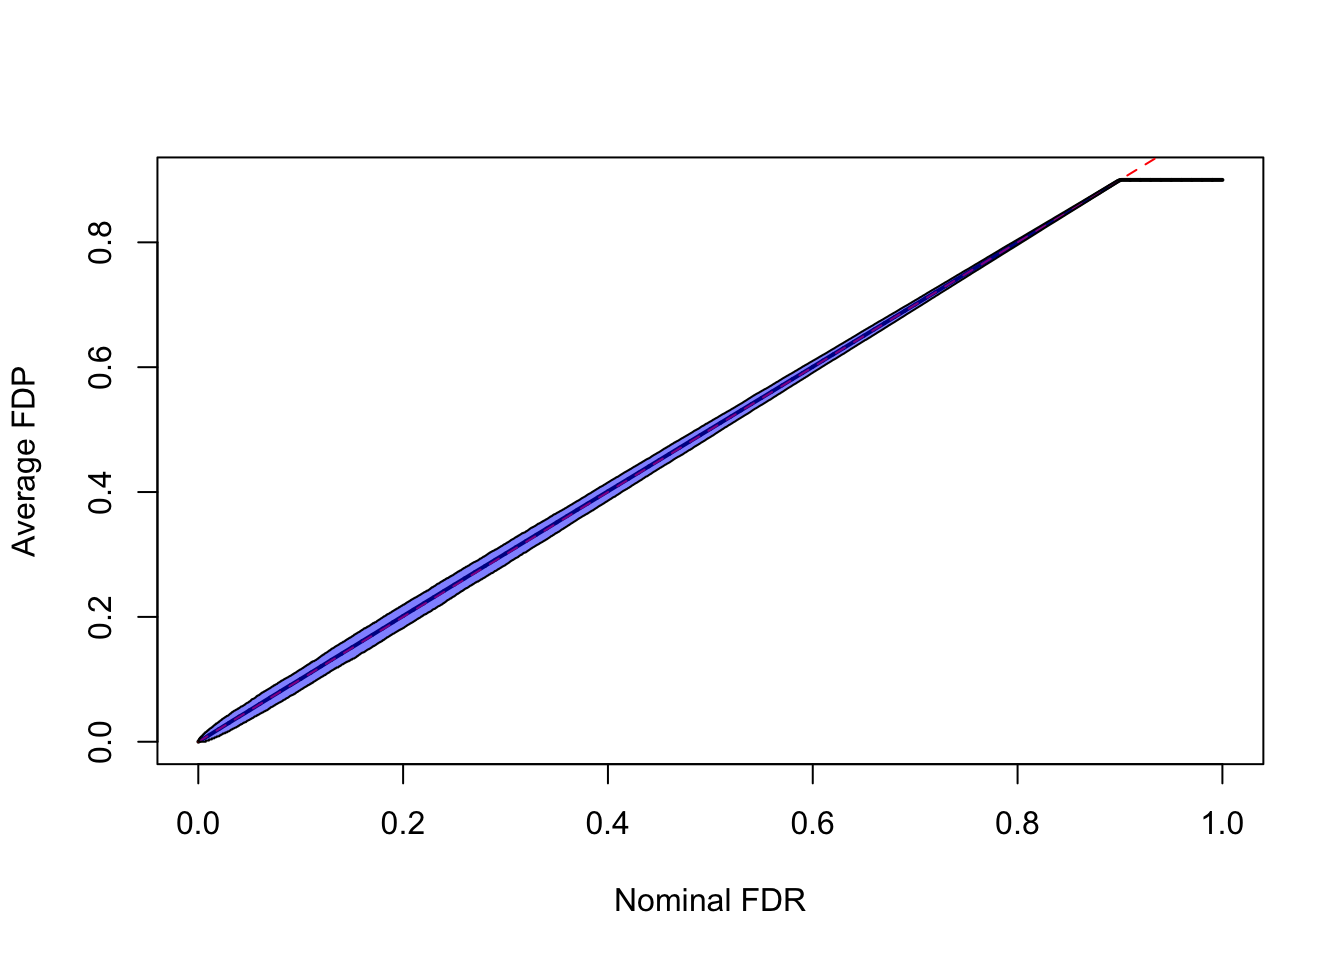
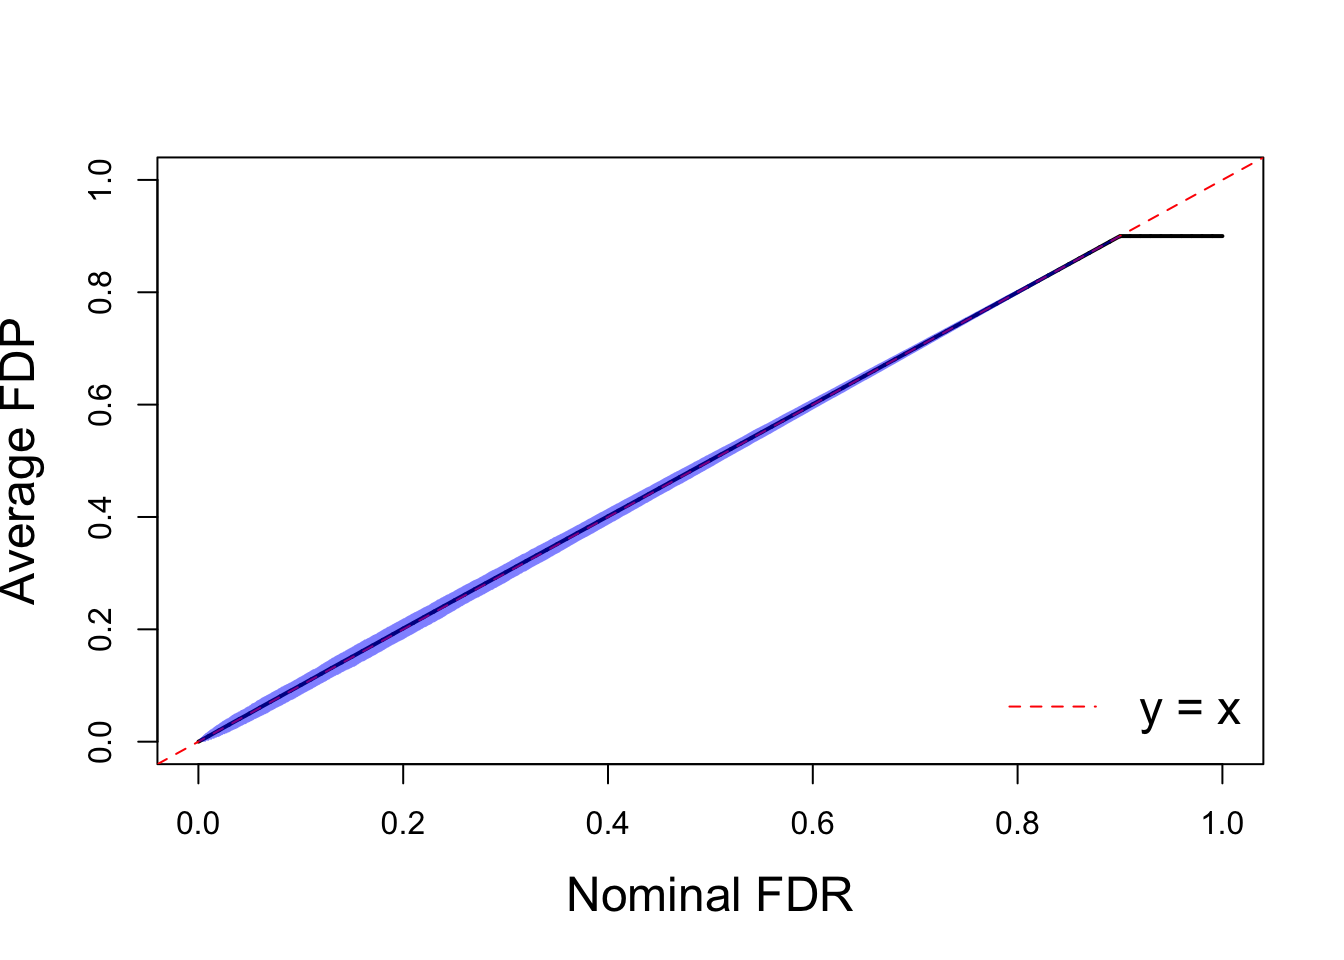
wflow_publish(all = TRUE)

diff --git a/docs/OB_FDR.html b/docs/OB_FDR.html
@@ -361,13 +361,17 @@ div.section {
 </li>
 <li>
 <details>
-<p><summary> <strong style="color:blue;">✔</strong> <strong>Repository version:</strong> <a href="https://github.com/LSun/OracleBayesMT/tree/ed81f2bf03adefc4f9e2f4cfd66c8eb663002227" target="_blank">ed81f2b</a> </summary></p>
+<p><summary> <strong style="color:blue;">✔</strong> <strong>Repository version:</strong> <a href="https://github.com/LSun/OracleBayesMT/tree/c6af604cad9f8ec0f22c3b8413df87d228149e0f" target="_blank">c6af604</a> </summary></p>
 Great! You are using Git for version control. Tracking code development and connecting the code version to the results is critical for reproducibility. The version displayed above was the version of the Git repository at the time these results were generated. <br><br> Note that you need to be careful to ensure that all relevant files for the analysis have been committed to Git prior to generating the results (you can use <code>wflow_publish</code> or <code>wflow_git_commit</code>). workflowr only checks the R Markdown file, but you know if there are other scripts or data files that it depends on. Below is the status of the Git repository when the results were generated:
 <pre><code>
 Ignored files:
+    Ignored:    .Rhistory
     Ignored:    .Rproj.user/
     Ignored:    analysis/OB_FDR_cache/
-    Ignored:    docs/figure/
+    Ignored:    figures/
+
+Unstaged changes:
+    Modified:   analysis/index.Rmd
 
 </code></pre>
 Note that any generated files, e.g. HTML, png, CSS, etc., are not included in this status report because it is ok for generated content to have uncommitted changes.
@@ -398,6 +402,40 @@ Message
 </tr>
 </thead>
 <tbody>
+<tr>
+<td style="text-align:left;">
+rmd
+</td>
+<td style="text-align:left;">
+<a href="https://github.com/LSun/OracleBayesMT/blob/c6af604cad9f8ec0f22c3b8413df87d228149e0f/analysis/OB_FDR.rmd" target="_blank">c6af604</a>
+</td>
+<td style="text-align:left;">
+Lei Sun
+</td>
+<td style="text-align:left;">
+2018-12-27
+</td>
+<td style="text-align:left;">
+figures
+</td>
+</tr>
+<tr>
+<td style="text-align:left;">
+html
+</td>
+<td style="text-align:left;">
+<a href="https://cdn.rawgit.com/LSun/OracleBayesMT/c40e19afb6bbe881a069eb10fe3a38335ae06dec/docs/OB_FDR.html" target="_blank">c40e19a</a>
+</td>
+<td style="text-align:left;">
+LSun
+</td>
+<td style="text-align:left;">
+2018-12-27
+</td>
+<td style="text-align:left;">
+Build site.
+</td>
+</tr>
 <tr>
 <td style="text-align:left;">
 rmd
@@ -467,10 +505,54 @@ colnames(FDP.mat) &lt;- q.vec</code></pre>
 <pre class="r"><code>FDP.mean &lt;- colMeans(FDP.mat)
 FDP.975 &lt;- apply(FDP.mat, 2, quantile, 0.975)
 FDP.025 &lt;- apply(FDP.mat, 2, quantile, 0.025)</code></pre>
-<pre class="r"><code>plot(q.vec, FDP.mean, xlab = &quot;Nominal FDR&quot;, ylab = &quot;Average FDP&quot;, type = &quot;l&quot;, lwd = 2)
-lines(0 : 1, 0 : 1, lty = 2, col = &quot;red&quot;)
-polygon(x = c(q.vec, rev(q.vec)), y = c(FDP.025, rev(FDP.975)), col = grDevices::rgb(0, 0, 1, alpha = 0.5))</code></pre>
+<pre class="r"><code>plot(q.vec, FDP.mean, xlab = &quot;Nominal FDR&quot;, ylab = &quot;Average FDP&quot;, type = &quot;l&quot;, lwd = 2, ylim = c(0, 1), xlim = c(0, 1), cex.lab = 1.5)
+abline(0, 1, lty = 2, col = &quot;red&quot;)
+polygon(x = c(q.vec, rev(q.vec)), y = c(FDP.025, rev(FDP.975)), col = grDevices::rgb(0, 0, 1, alpha = 0.5), border = FALSE)
+
+legend(&quot;bottomright&quot;, lty = 2, col = &quot;red&quot;, &quot;y = x&quot;, cex = 1.5, bty = &quot;n&quot;)</code></pre>
 <p><img src="figure/OB_FDR.rmd/unnamed-chunk-6-1.png" width="672" style="display: block; margin: auto;" /></p>
+<details>
+<summary><em>Expand here to see past versions of unnamed-chunk-6-1.png:</em></summary>
+<table style = "border-collapse:separate; border-spacing:5px;">
+<thead>
+<tr>
+<th style="text-align:left;">
+Version
+</th>
+<th style="text-align:left;">
+Author
+</th>
+<th style="text-align:left;">
+Date
+</th>
+</tr>
+</thead>
+<tbody>
+<tr>
+<td style="text-align:left;">
+<a href="https://github.com/LSun/OracleBayesMT/blob/c40e19afb6bbe881a069eb10fe3a38335ae06dec/docs/figure/OB_FDR.rmd/unnamed-chunk-6-1.png" target="_blank">c40e19a</a>
+</td>
+<td style="text-align:left;">
+LSun
+</td>
+<td style="text-align:left;">
+2018-12-27
+</td>
+</tr>
+</tbody>
+</table>
+</details>
+<pre class="r"><code>pdf(&quot;../figures/avgFDP.pdf&quot;, width = 5, height = 5)
+
+par(mar = c(4.5, 4.5, 1, 1))
+
+plot(q.vec, FDP.mean, xlab = &quot;Nominal FDR&quot;, ylab = &quot;Average FDP&quot;, type = &quot;l&quot;, lwd = 2, ylim = c(0, 1), xlim = c(0, 1), cex.lab = 1.5)
+abline(0, 1, lty = 2, col = &quot;red&quot;)
+polygon(x = c(q.vec, rev(q.vec)), y = c(FDP.025, rev(FDP.975)), col = grDevices::rgb(0, 0, 1, alpha = 0.5), border = FALSE)
+
+legend(&quot;bottomright&quot;, lty = 2, col = &quot;red&quot;, &quot;y = x&quot;, cex = 1.5, bty = &quot;n&quot;)
+
+invisible(dev.off())</code></pre>
 <div id="session-information" class="section level2">
 <h2>Session information</h2>
 <pre class="r"><code>sessionInfo()</code></pre>
@@ -489,13 +571,13 @@ attached base packages:
 [1] stats     graphics  grDevices utils     datasets  methods   base     
 
 loaded via a namespace (and not attached):
- [1] workflowr_1.1.1   Rcpp_0.12.16      codetools_0.2-15 
- [4] digest_0.6.15     rprojroot_1.3-2   R.methodsS3_1.7.1
- [7] backports_1.1.2   git2r_0.23.0      magrittr_1.5     
-[10] evaluate_0.10.1   stringi_1.2.2     whisker_0.3-2    
-[13] R.oo_1.22.0       R.utils_2.6.0     rmarkdown_1.9    
-[16] tools_3.4.3       stringr_1.3.1     yaml_2.1.19      
-[19] compiler_3.4.3    htmltools_0.3.6   knitr_1.20       </code></pre>
+ [1] workflowr_1.1.1   Rcpp_0.12.16      digest_0.6.15    
+ [4] rprojroot_1.3-2   R.methodsS3_1.7.1 backports_1.1.2  
+ [7] git2r_0.23.0      magrittr_1.5      evaluate_0.10.1  
+[10] stringi_1.2.2     whisker_0.3-2     R.oo_1.22.0      
+[13] R.utils_2.6.0     rmarkdown_1.9     tools_3.4.3      
+[16] stringr_1.3.1     yaml_2.1.19       compiler_3.4.3   
+[19] htmltools_0.3.6   knitr_1.20       </code></pre>
 </div>
 
 <!-- Adjust MathJax settings so that all math formulae are shown using
